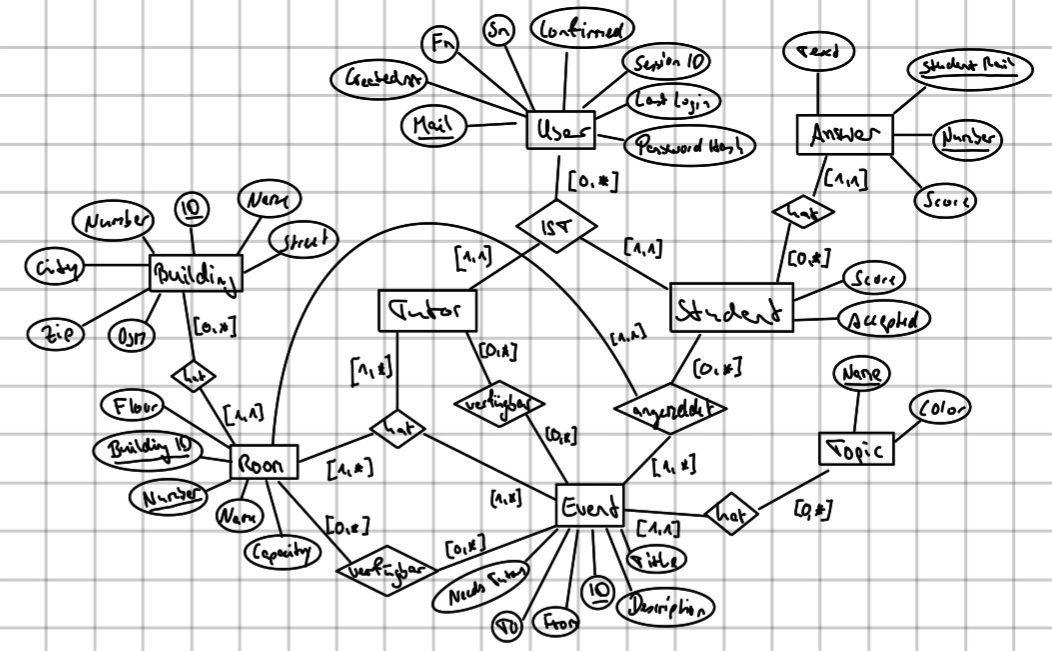
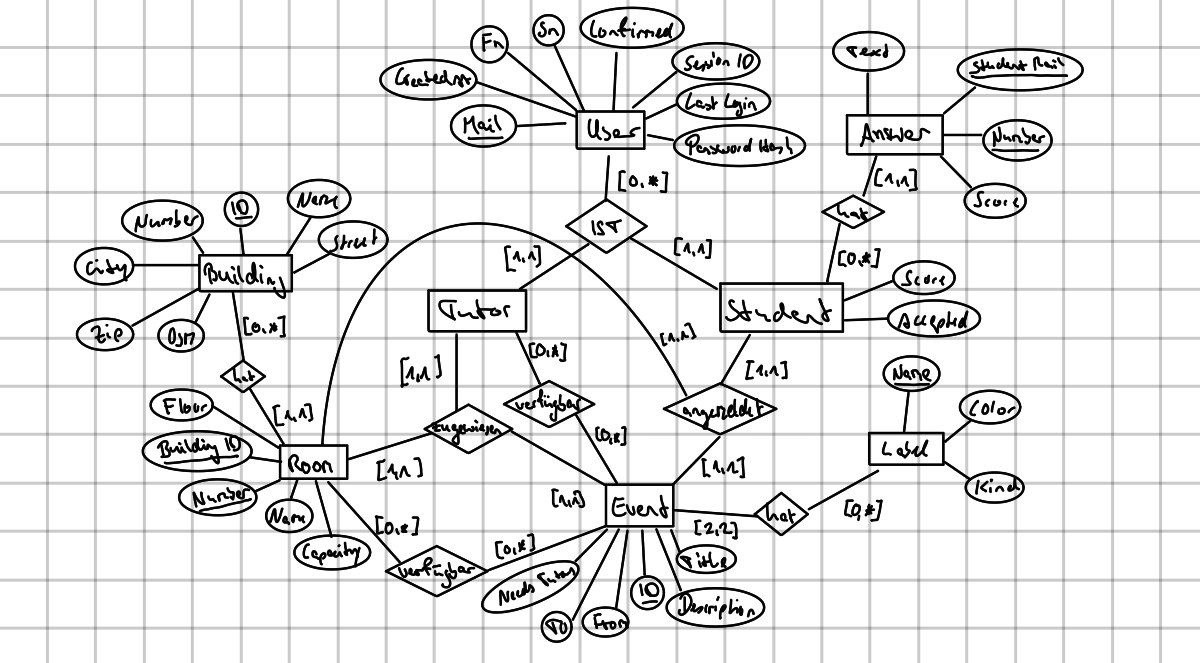
small bug fixes (#49); updated er model

diff --git a/server/graph/generated.go b/server/graph/generated.go
@@ -70,7 +70,6 @@ type ComplexityRoot struct {
 		Description     func(childComplexity int) int
 		From            func(childComplexity int) int
 		ID              func(childComplexity int) int
-		Link            func(childComplexity int) int
 		NeedsTutors     func(childComplexity int) int
 		RoomsAvailable  func(childComplexity int) int
 		Title           func(childComplexity int) int
@@ -154,9 +153,6 @@ type ComplexityRoot struct {
 
 type EventResolver interface {
 	TutorsAssigned(ctx context.Context, obj *models.Event) ([]*model.EventTutorRoomPair, error)
-
-	Topic(ctx context.Context, obj *models.Event) (*models.Label, error)
-	Type(ctx context.Context, obj *models.Event) (*models.Label, error)
 
 	From(ctx context.Context, obj *models.Event) (string, error)
 	To(ctx context.Context, obj *models.Event) (string, error)
@@ -309,13 +305,6 @@ func (e *executableSchema) Complexity(typeName, field string, childComplexity in
 		}
 
 		return e.complexity.Event.ID(childComplexity), true
-
-	case "Event.link":
-		if e.complexity.Event.Link == nil {
-			break
-		}
-
-		return e.complexity.Event.Link(childComplexity), true
 
 	case "Event.needsTutors":
 		if e.complexity.Event.NeedsTutors == nil {
@@ -2232,7 +2221,7 @@ func (ec *executionContext) _Event_topic(ctx context.Context, field graphql.Coll
 	}()
 	resTmp, err := ec.ResolverMiddleware(ctx, func(rctx context.Context) (interface{}, error) {
 		ctx = rctx // use context from middleware stack in children
-		return ec.resolvers.Event().Topic(rctx, obj)
+		return obj.Topic, nil
 	})
 	if err != nil {
 		ec.Error(ctx, err)
@@ -2253,8 +2242,8 @@ func (ec *executionContext) fieldContext_Event_topic(_ context.Context, field gr
 	fc = &graphql.FieldContext{
 		Object:     "Event",
 		Field:      field,
-		IsMethod:   true,
-		IsResolver: true,
+		IsMethod:   false,
+		IsResolver: false,
 		Child: func(ctx context.Context, field graphql.CollectedField) (*graphql.FieldContext, error) {
 			switch field.Name {
 			case "name":
@@ -2282,7 +2271,7 @@ func (ec *executionContext) _Event_type(ctx context.Context, field graphql.Colle
 	}()
 	resTmp, err := ec.ResolverMiddleware(ctx, func(rctx context.Context) (interface{}, error) {
 		ctx = rctx // use context from middleware stack in children
-		return ec.resolvers.Event().Type(rctx, obj)
+		return obj.Type, nil
 	})
 	if err != nil {
 		ec.Error(ctx, err)
@@ -2303,8 +2292,8 @@ func (ec *executionContext) fieldContext_Event_type(_ context.Context, field gra
 	fc = &graphql.FieldContext{
 		Object:     "Event",
 		Field:      field,
-		IsMethod:   true,
-		IsResolver: true,
+		IsMethod:   false,
+		IsResolver: false,
 		Child: func(ctx context.Context, field graphql.CollectedField) (*graphql.FieldContext, error) {
 			switch field.Name {
 			case "name":
@@ -2313,47 +2302,6 @@ func (ec *executionContext) fieldContext_Event_type(_ context.Context, field gra
 				return ec.fieldContext_Label_color(ctx, field)
 			}
 			return nil, fmt.Errorf("no field named %q was found under type Label", field.Name)
-		},
-	}
-	return fc, nil
-}
-
-func (ec *executionContext) _Event_link(ctx context.Context, field graphql.CollectedField, obj *models.Event) (ret graphql.Marshaler) {
-	fc, err := ec.fieldContext_Event_link(ctx, field)
-	if err != nil {
-		return graphql.Null
-	}
-	ctx = graphql.WithFieldContext(ctx, fc)
-	defer func() {
-		if r := recover(); r != nil {
-			ec.Error(ctx, ec.Recover(ctx, r))
-			ret = graphql.Null
-		}
-	}()
-	resTmp, err := ec.ResolverMiddleware(ctx, func(rctx context.Context) (interface{}, error) {
-		ctx = rctx // use context from middleware stack in children
-		return obj.Link, nil
-	})
-	if err != nil {
-		ec.Error(ctx, err)
-		return graphql.Null
-	}
-	if resTmp == nil {
-		return graphql.Null
-	}
-	res := resTmp.(string)
-	fc.Result = res
-	return ec.marshalOString2string(ctx, field.Selections, res)
-}
-
-func (ec *executionContext) fieldContext_Event_link(_ context.Context, field graphql.CollectedField) (fc *graphql.FieldContext, err error) {
-	fc = &graphql.FieldContext{
-		Object:     "Event",
-		Field:      field,
-		IsMethod:   false,
-		IsResolver: false,
-		Child: func(ctx context.Context, field graphql.CollectedField) (*graphql.FieldContext, error) {
-			return nil, errors.New("field of type String does not have child fields")
 		},
 	}
 	return fc, nil
@@ -3925,8 +3873,6 @@ func (ec *executionContext) fieldContext_Query_events(ctx context.Context, field
 				return ec.fieldContext_Event_topic(ctx, field)
 			case "type":
 				return ec.fieldContext_Event_type(ctx, field)
-			case "link":
-				return ec.fieldContext_Event_link(ctx, field)
 			case "from":
 				return ec.fieldContext_Event_from(ctx, field)
 			case "to":
@@ -4864,8 +4810,6 @@ func (ec *executionContext) fieldContext_Student_eventsRegistered(_ context.Cont
 				return ec.fieldContext_Event_topic(ctx, field)
 			case "type":
 				return ec.fieldContext_Event_type(ctx, field)
-			case "link":
-				return ec.fieldContext_Event_link(ctx, field)
 			case "from":
 				return ec.fieldContext_Event_from(ctx, field)
 			case "to":
@@ -5107,8 +5051,6 @@ func (ec *executionContext) fieldContext_Tutor_eventsAvailable(_ context.Context
 				return ec.fieldContext_Event_topic(ctx, field)
 			case "type":
 				return ec.fieldContext_Event_type(ctx, field)
-			case "link":
-				return ec.fieldContext_Event_link(ctx, field)
 			case "from":
 				return ec.fieldContext_Event_from(ctx, field)
 			case "to":
@@ -5174,8 +5116,6 @@ func (ec *executionContext) fieldContext_Tutor_eventsAssigned(_ context.Context,
 				return ec.fieldContext_Event_topic(ctx, field)
 			case "type":
 				return ec.fieldContext_Event_type(ctx, field)
-			case "link":
-				return ec.fieldContext_Event_link(ctx, field)
 			case "from":
 				return ec.fieldContext_Event_from(ctx, field)
 			case "to":
@@ -7029,7 +6969,7 @@ func (ec *executionContext) unmarshalInputNewEvent(ctx context.Context, obj inte
 		asMap[k] = v
 	}
 
-	fieldsInOrder := [...]string{"title", "description", "topic", "type", "link", "needsTutors", "from", "to"}
+	fieldsInOrder := [...]string{"title", "description", "topicName", "typeName", "needsTutors", "from", "to"}
 	for _, k := range fieldsInOrder {
 		v, ok := asMap[k]
 		if !ok {
@@ -7050,27 +6990,20 @@ func (ec *executionContext) unmarshalInputNewEvent(ctx context.Context, obj inte
 				return it, err
 			}
 			it.Description = data
-		case "topic":
-			ctx := graphql.WithPathContext(ctx, graphql.NewPathWithField("topic"))
+		case "topicName":
+			ctx := graphql.WithPathContext(ctx, graphql.NewPathWithField("topicName"))
 			data, err := ec.unmarshalNString2string(ctx, v)
 			if err != nil {
 				return it, err
 			}
-			it.Topic = data
-		case "type":
-			ctx := graphql.WithPathContext(ctx, graphql.NewPathWithField("type"))
+			it.TopicName = data
+		case "typeName":
+			ctx := graphql.WithPathContext(ctx, graphql.NewPathWithField("typeName"))
 			data, err := ec.unmarshalNString2string(ctx, v)
 			if err != nil {
 				return it, err
 			}
-			it.Type = data
-		case "link":
-			ctx := graphql.WithPathContext(ctx, graphql.NewPathWithField("link"))
-			data, err := ec.unmarshalOString2string(ctx, v)
-			if err != nil {
-				return it, err
-			}
-			it.Link = data
+			it.TypeName = data
 		case "needsTutors":
 			ctx := graphql.WithPathContext(ctx, graphql.NewPathWithField("needsTutors"))
 			data, err := ec.unmarshalNBoolean2bool(ctx, v)
@@ -7552,79 +7485,15 @@ func (ec *executionContext) _Event(ctx context.Context, sel ast.SelectionSet, ob
 		case "description":
 			out.Values[i] = ec._Event_description(ctx, field, obj)
 		case "topic":
-			field := field
-
-			innerFunc := func(ctx context.Context, fs *graphql.FieldSet) (res graphql.Marshaler) {
-				defer func() {
-					if r := recover(); r != nil {
-						ec.Error(ctx, ec.Recover(ctx, r))
-					}
-				}()
-				res = ec._Event_topic(ctx, field, obj)
-				if res == graphql.Null {
-					atomic.AddUint32(&fs.Invalids, 1)
-				}
-				return res
+			out.Values[i] = ec._Event_topic(ctx, field, obj)
+			if out.Values[i] == graphql.Null {
+				atomic.AddUint32(&out.Invalids, 1)
 			}
-
-			if field.Deferrable != nil {
-				dfs, ok := deferred[field.Deferrable.Label]
-				di := 0
-				if ok {
-					dfs.AddField(field)
-					di = len(dfs.Values) - 1
-				} else {
-					dfs = graphql.NewFieldSet([]graphql.CollectedField{field})
-					deferred[field.Deferrable.Label] = dfs
-				}
-				dfs.Concurrently(di, func(ctx context.Context) graphql.Marshaler {
-					return innerFunc(ctx, dfs)
-				})
-
-				// don't run the out.Concurrently() call below
-				out.Values[i] = graphql.Null
-				continue
-			}
-
-			out.Concurrently(i, func(ctx context.Context) graphql.Marshaler { return innerFunc(ctx, out) })
 		case "type":
-			field := field
-
-			innerFunc := func(ctx context.Context, fs *graphql.FieldSet) (res graphql.Marshaler) {
-				defer func() {
-					if r := recover(); r != nil {
-						ec.Error(ctx, ec.Recover(ctx, r))
-					}
-				}()
-				res = ec._Event_type(ctx, field, obj)
-				if res == graphql.Null {
-					atomic.AddUint32(&fs.Invalids, 1)
-				}
-				return res
+			out.Values[i] = ec._Event_type(ctx, field, obj)
+			if out.Values[i] == graphql.Null {
+				atomic.AddUint32(&out.Invalids, 1)
 			}
-
-			if field.Deferrable != nil {
-				dfs, ok := deferred[field.Deferrable.Label]
-				di := 0
-				if ok {
-					dfs.AddField(field)
-					di = len(dfs.Values) - 1
-				} else {
-					dfs = graphql.NewFieldSet([]graphql.CollectedField{field})
-					deferred[field.Deferrable.Label] = dfs
-				}
-				dfs.Concurrently(di, func(ctx context.Context) graphql.Marshaler {
-					return innerFunc(ctx, dfs)
-				})
-
-				// don't run the out.Concurrently() call below
-				out.Values[i] = graphql.Null
-				continue
-			}
-
-			out.Concurrently(i, func(ctx context.Context) graphql.Marshaler { return innerFunc(ctx, out) })
-		case "link":
-			out.Values[i] = ec._Event_link(ctx, field, obj)
 		case "from":
 			field := field
 
@@ -8978,10 +8847,6 @@ func (ec *executionContext) marshalNInt2ᚕintᚄ(ctx context.Context, sel ast.S
 	}
 
 	return ret
-}
-
-func (ec *executionContext) marshalNLabel2githubᚗcomᚋFachschaftMathPhysInfoᚋpeppᚋserverᚋmodelsᚐLabel(ctx context.Context, sel ast.SelectionSet, v models.Label) graphql.Marshaler {
-	return ec._Label(ctx, sel, &v)
 }
 
 func (ec *executionContext) marshalNLabel2ᚕᚖgithubᚗcomᚋFachschaftMathPhysInfoᚋpeppᚋserverᚋmodelsᚐLabelᚄ(ctx context.Context, sel ast.SelectionSet, v []*models.Label) graphql.Marshaler {

diff --git a/server/graph/schema.resolvers.go b/server/graph/schema.resolvers.go
@@ -66,26 +66,6 @@ func (r *eventResolver) TutorsAssigned(ctx context.Context, obj *models.Event) (
 	return tutorRoomPairs, nil
 }
 
-// Topic is the resolver for the topic field.
-func (r *eventResolver) Topic(ctx context.Context, obj *models.Event) (*models.Label, error) {
-	topics, err := r.Query().Labels(ctx, []string{obj.Topic}, []model.LabelKind{model.LabelKindTopic})
-	if err != nil {
-		return nil, err
-	}
-
-	return topics[0], nil
-}
-
-// Type is the resolver for the type field.
-func (r *eventResolver) Type(ctx context.Context, obj *models.Event) (*models.Label, error) {
-	types, err := r.Query().Labels(ctx, []string{obj.Type}, []model.LabelKind{model.LabelKindEventType})
-	if err != nil {
-		return nil, err
-	}
-
-	return types[0], nil
-}
-
 // From is the resolver for the from field.
 func (r *eventResolver) From(ctx context.Context, obj *models.Event) (string, error) {
 	return obj.From.String(), nil
@@ -121,7 +101,7 @@ func (r *mutationResolver) AddTutor(ctx context.Context, tutor models.Tutor) (st
 		e := []hermes.Entry{
 			{Key: os.Getenv("EMAIL_ASSIGNMENTS_EVENT_TITLE"), Value: event.Title},
 			{Key: os.Getenv("EMAIL_ASSIGNMENTS_DATE_TITLE"), Value: event.From.Format("02.01")},
-			{Key: os.Getenv("EMAIL_ASSIGNMENTS_KIND_TITLE"), Value: event.Type}}
+			{Key: os.Getenv("EMAIL_ASSIGNMENTS_KIND_TITLE"), Value: event.TypeName}}
 		table.Data = append(table.Data, e)
 	}
 
@@ -330,7 +310,7 @@ func (r *mutationResolver) AssignTutorToEvent(ctx context.Context, link models.E
 	}
 
 	roomNumber := room[0].Number
-	if room[0].Name == "" {
+	if room[0].Name != "" {
 		roomNumber = fmt.Sprintf("%s (%s)",
 			room[0].Name, room[0].Number)
 	}
@@ -404,6 +384,8 @@ func (r *queryResolver) Events(ctx context.Context, id []int, topic []string, ty
 
 	query := r.DB.NewSelect().
 		Model(&events).
+		Relation("Topic").
+		Relation("Type").
 		Relation("TutorsAssigned").
 		Relation("TutorsAvailable").
 		Relation("RoomsAvailable")
@@ -412,16 +394,16 @@ func (r *queryResolver) Events(ctx context.Context, id []int, topic []string, ty
 		query = query.Where("topic_name IN (?)", bun.In(topic))
 	}
 
+	if typeArg != nil {
+		query = query.Where("type_name IN (?)", bun.In(typeArg))
+	}
+
 	if needsTutors != nil {
 		query = query.Where("needs_tutors = ?", *needsTutors)
 	}
 
 	if id != nil {
 		query = query.Where("id IN (?)", bun.In(id))
-	}
-
-	if typeArg != nil {
-		query = query.Where("type IN (?)", bun.In(typeArg))
 	}
 
 	if all == nil || *all == false {

diff --git a/server/models/event.go b/server/models/event.go
@@ -13,13 +13,14 @@ type Event struct {
 	ID          int32  `bun:",pk,autoincrement"`
 	Title       string `bun:",notnull"`
 	Description string
-	Topic       string `bun:",notnull"`
-	Type        string `bun:",notnull"`
-	Link        string
+	TopicName   string    `bun:",notnull"`
+	TypeName    string    `bun:",notnull"`
 	From        time.Time `bun:",notnull"`
 	To          time.Time `bun:",notnull"`
 	NeedsTutors bool      `bun:",notnull"`
 
+	Topic           *Label  `bun:"rel:belongs-to,join:topic_name=name"`
+	Type            *Label  `bun:"rel:belongs-to,join:type_name=name"`
 	TutorsAssigned  []Tutor `bun:"m2m:event_to_tutors,join:Event=Tutor"`
 	TutorsAvailable []Tutor `bun:"m2m:tutor_to_events,join:Event=Tutor"`
 	RoomsAvailable  []Room  `bun:"m2m:room_to_events,join:Event=Room"`
@@ -28,7 +29,8 @@ type Event struct {
 var _ bun.BeforeCreateTableHook = (*Event)(nil)
 
 func (*Event) BeforeCreateTable(ctx context.Context, query *bun.CreateTableQuery) error {
-	query.ForeignKey(`("topic") REFERENCES "labels" ("name") ON DELETE CASCADE`)
+	query.ForeignKey(`("topic_name") REFERENCES "labels" ("name") ON DELETE CASCADE`)
+	query.ForeignKey(`("type_name") REFERENCES "labels" ("name") ON DELETE CASCADE`)
 	return nil
 }
 
